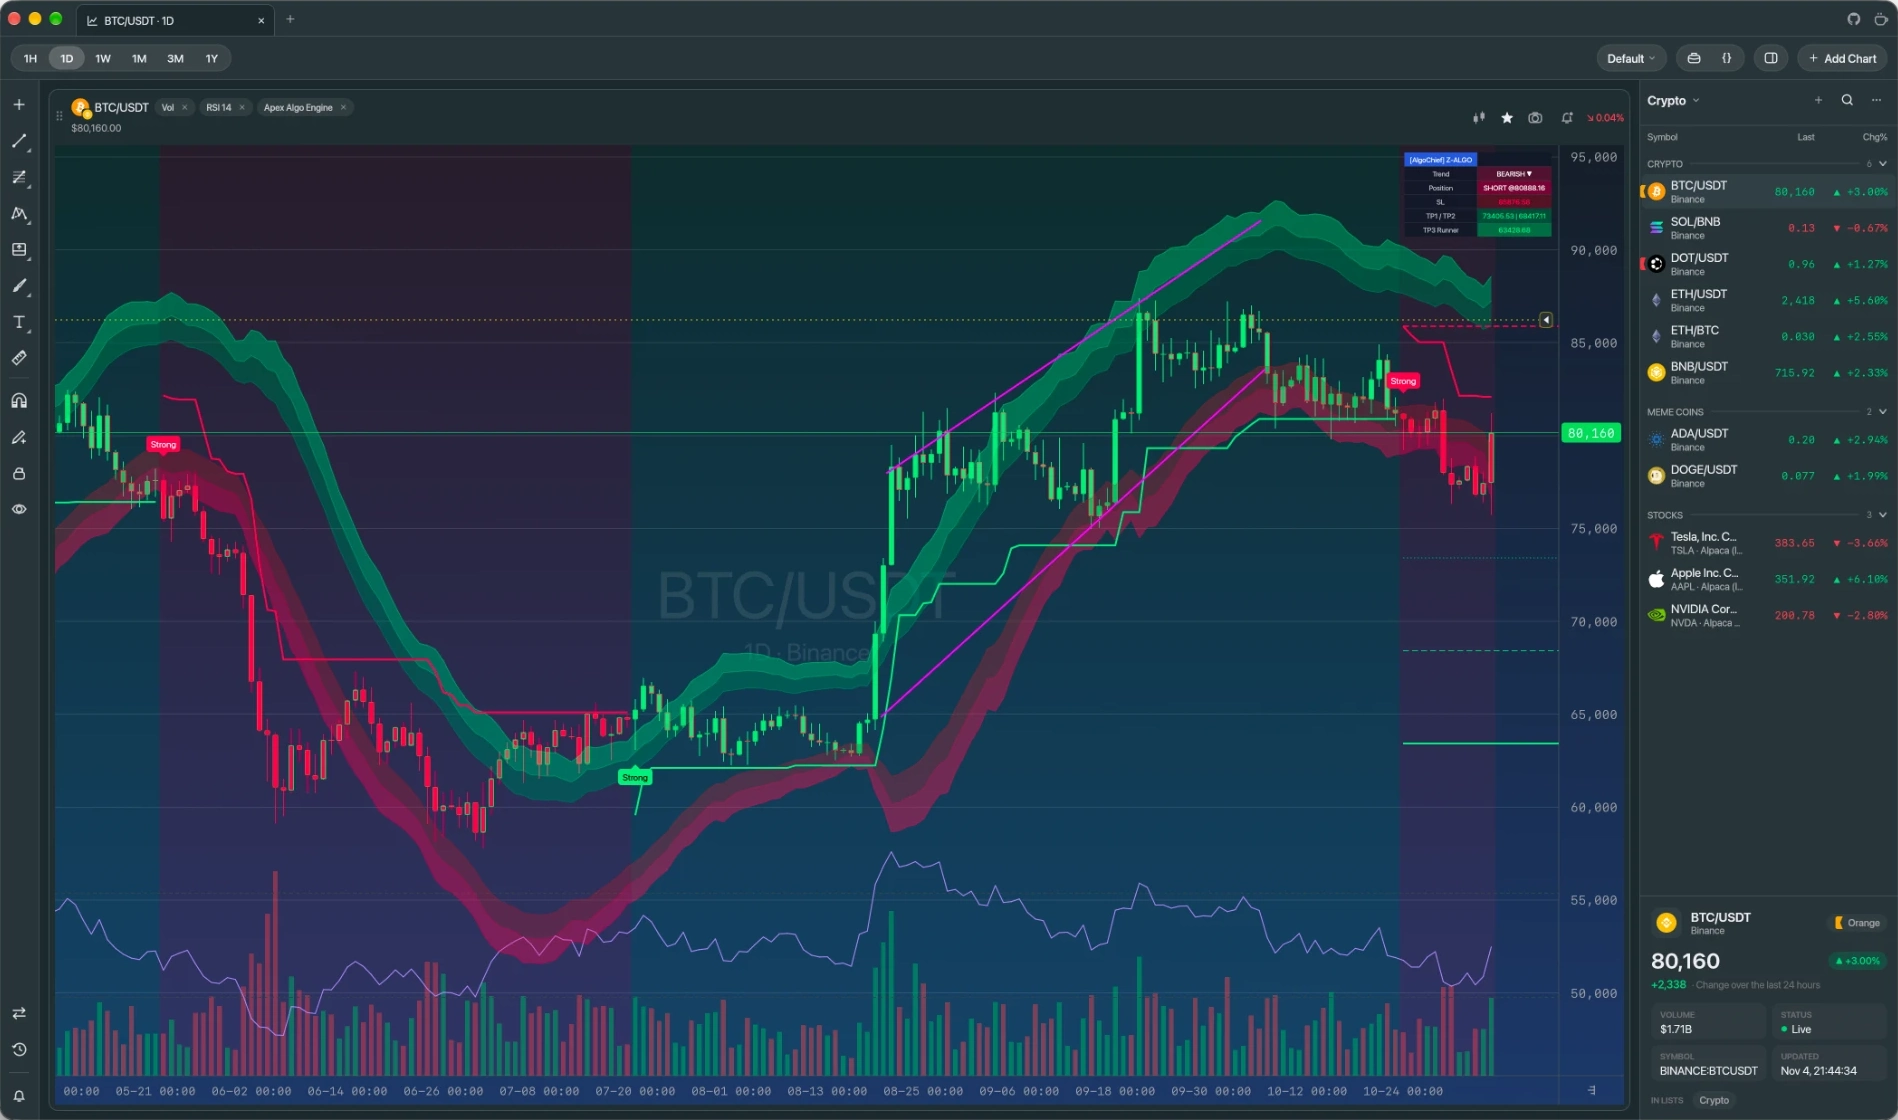
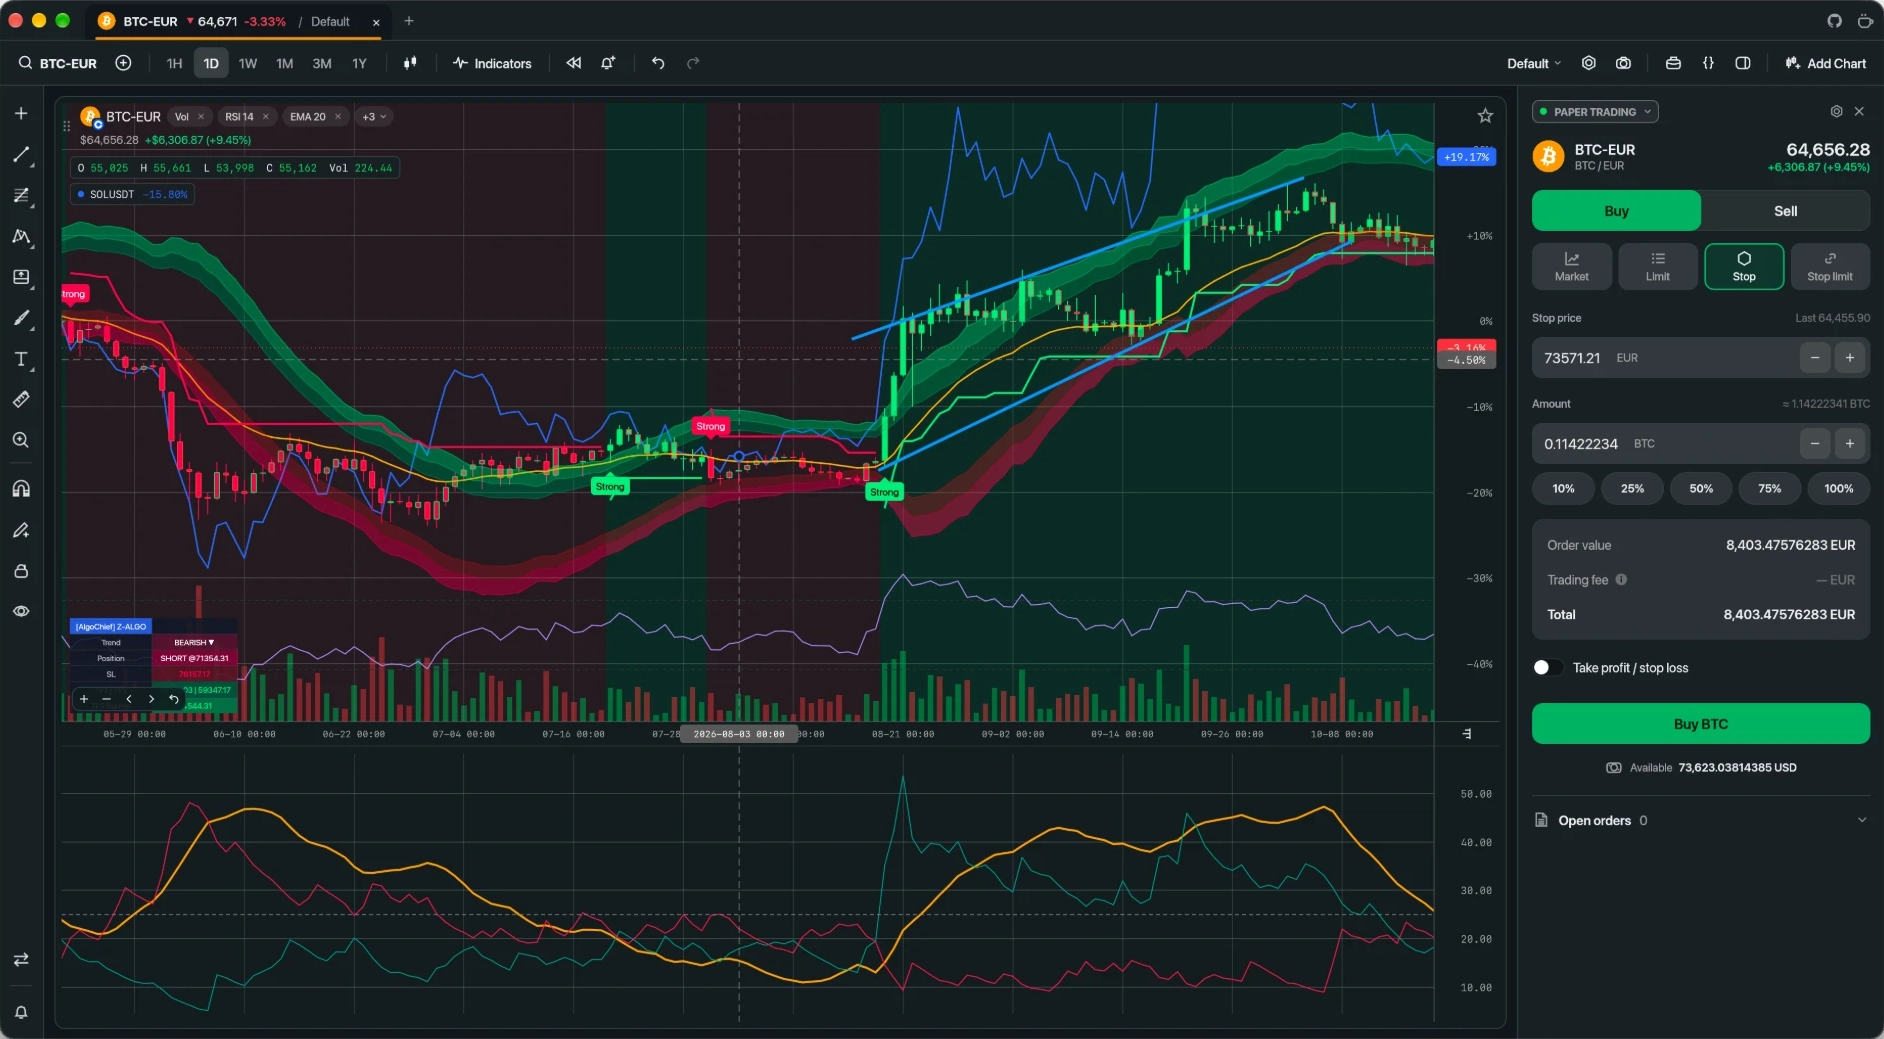
Replace the hero screenshot with the BTC-EUR paper trading window

diff --git a/src/assets/screens/README.md b/src/assets/screens/README.md
@@ -9,7 +9,7 @@ Drop PNGs here; the site picks them up automatically (missing ones render a "com
 
 | slug | show |
 |---|---|
-| `hero` | Multi-column chart grid with crypto, a stock and a prediction market, favorites sidebar visible |
+| `hero` | Full window: BTC-EUR chart with indicators and drawings, paper-trading order ticket on the right |
 | `markets` | Symbol search across sources, a Polymarket/Kalshi probability chart next to a price chart |
 | `pine-script` | Pine Studio: editor, diagnostics, live preview chart |
 | `portfolio` | Allocation, P&L, transaction ledger |
